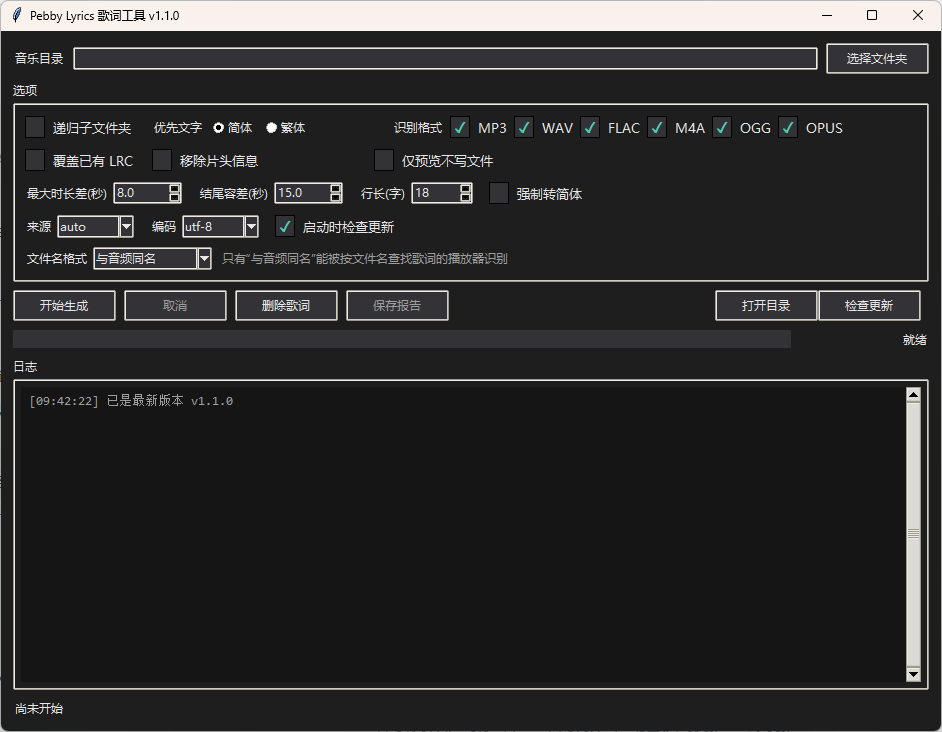
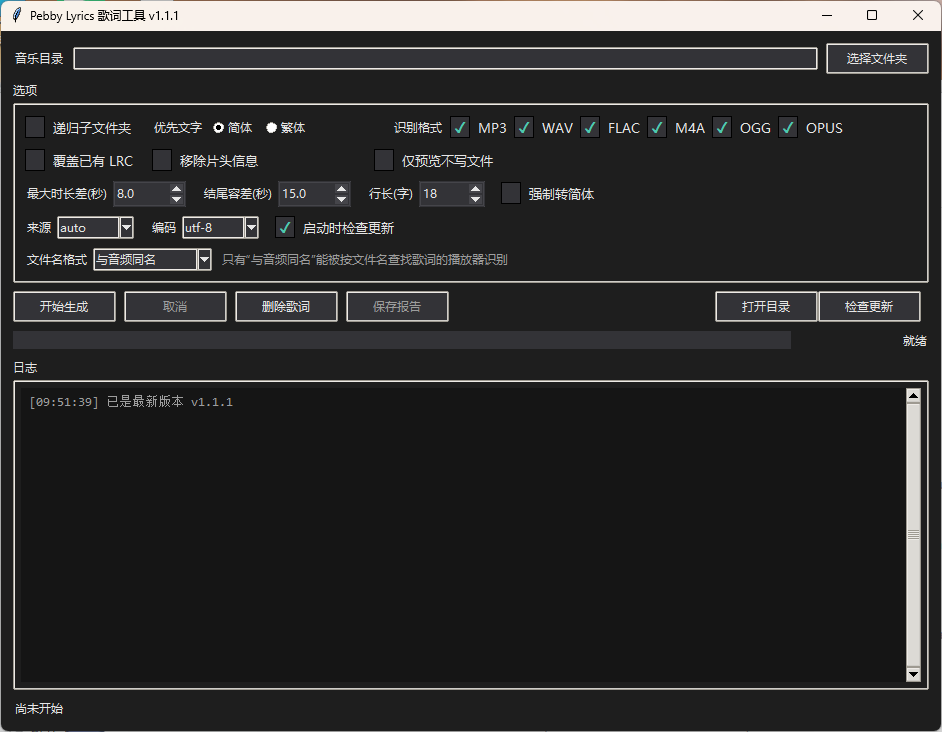
修复深色主题下 Spinbox 箭头不可见（v1.1.1）
clam 主题默认用黑色绘制 Spinbox 的上下箭头，在 #333337 的输入框上
两个按钮只剩两块黑框，看不出可以点击。

改为显式设置 TSpinbox 的 arrowcolor、arrowsize 和按钮底色
（按钮区 #45454a 略亮于输入区，箭头用前景色 #e6e6e6），并补上
禁用态的映射：文本和箭头一起变灰。

同步更新 README 截图。

diff --git a/lrc_gui.py b/lrc_gui.py
@@ -201,6 +201,13 @@ class LrcApp:
         style.map("TButton", background=[("active", "#45454a")],
                   foreground=[("disabled", MUTED)])
         style.configure("TEntry", fieldbackground=FIELD, foreground=FG, insertcolor=FG)
+        # clam 默认把 Spinbox 箭头画成黑色，在深色底上完全看不见
+        style.configure("TSpinbox", fieldbackground=FIELD, foreground=FG, insertcolor=FG,
+                        arrowcolor=FG, arrowsize=14, background="#45454a",
+                        bordercolor=FIELD, lightcolor="#45454a", darkcolor="#45454a")
+        style.map("TSpinbox", fieldbackground=[("disabled", FIELD)],
+                  foreground=[("disabled", MUTED)],
+                  arrowcolor=[("disabled", MUTED)])
         style.configure("TCombobox", fieldbackground=FIELD, background=FIELD,
                         foreground=FG, arrowcolor=FG)
         style.map("TCombobox", fieldbackground=[("readonly", FIELD)])

diff --git a/version.py b/version.py
@@ -5,4 +5,4 @@ GUI 标题、`--version`、更新检查和打包脚本都从这里读，
 避免界面、exe 名称和 GitHub tag 三处写死后互相对不上。
 """
 
-__version__ = "1.1.0"
+__version__ = "1.1.1"
